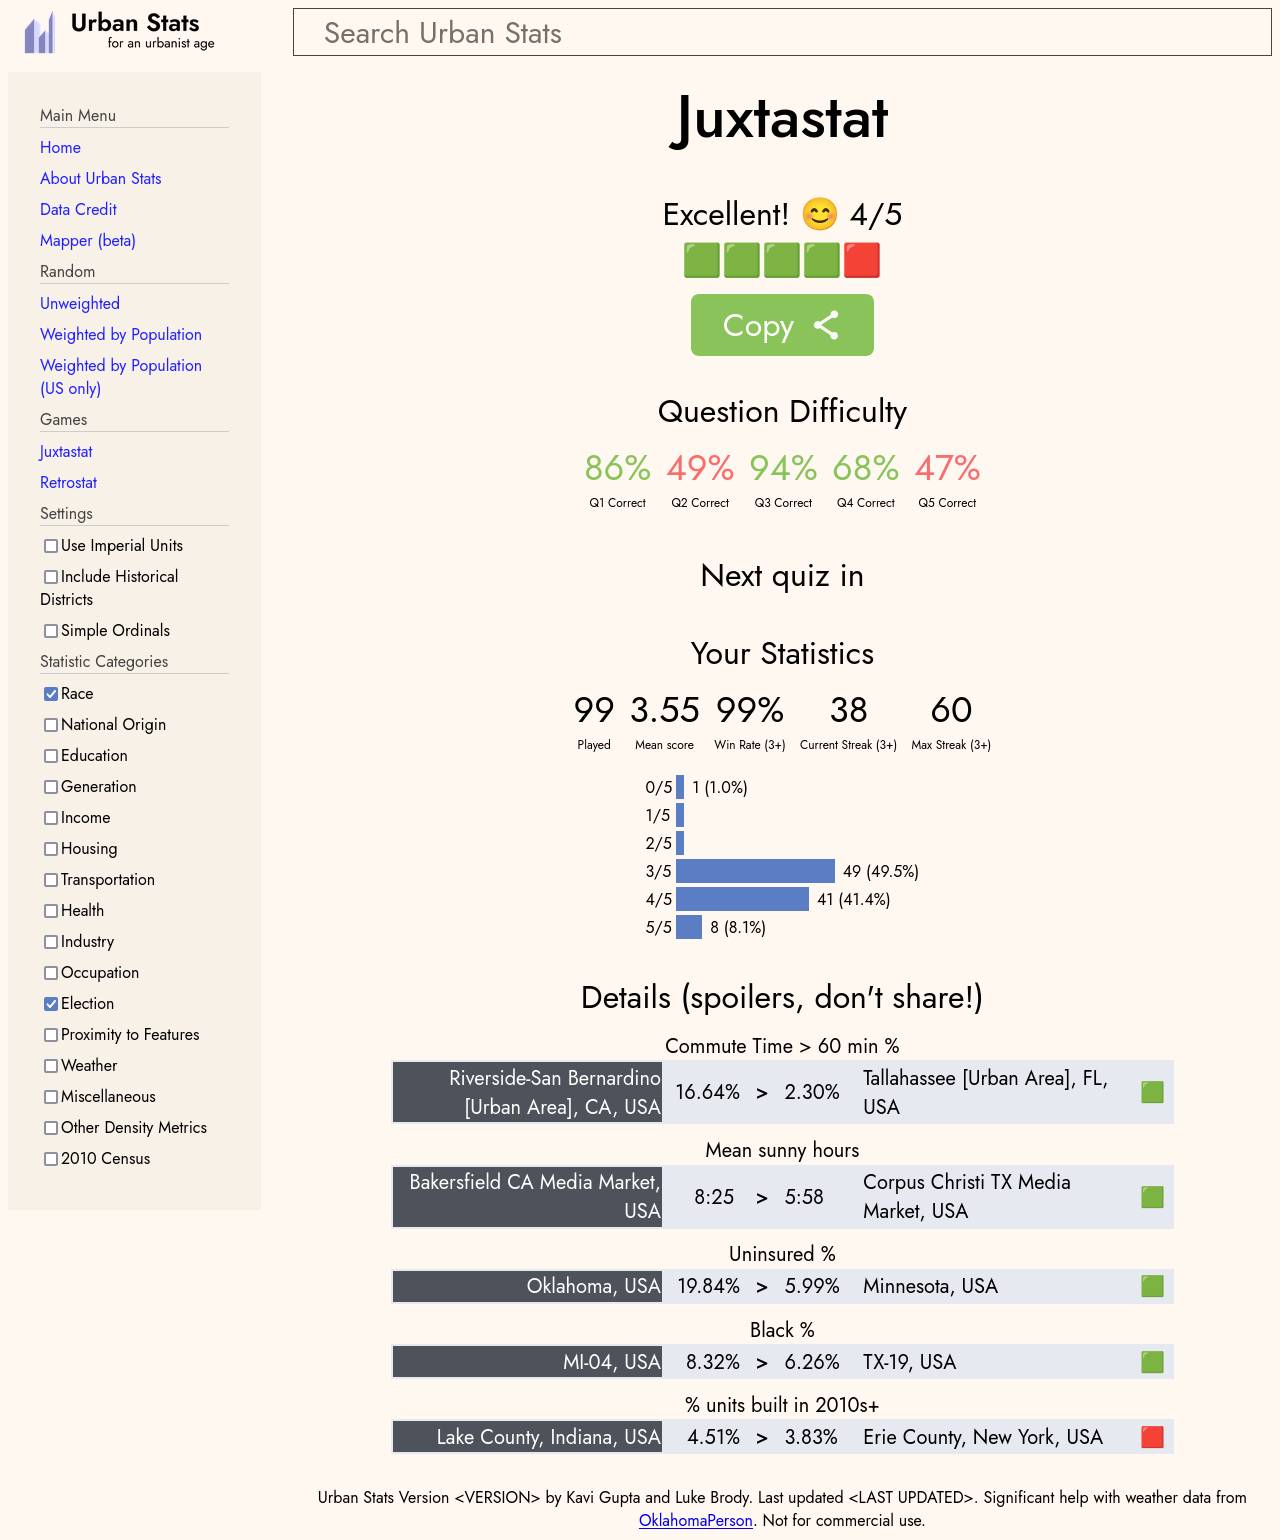
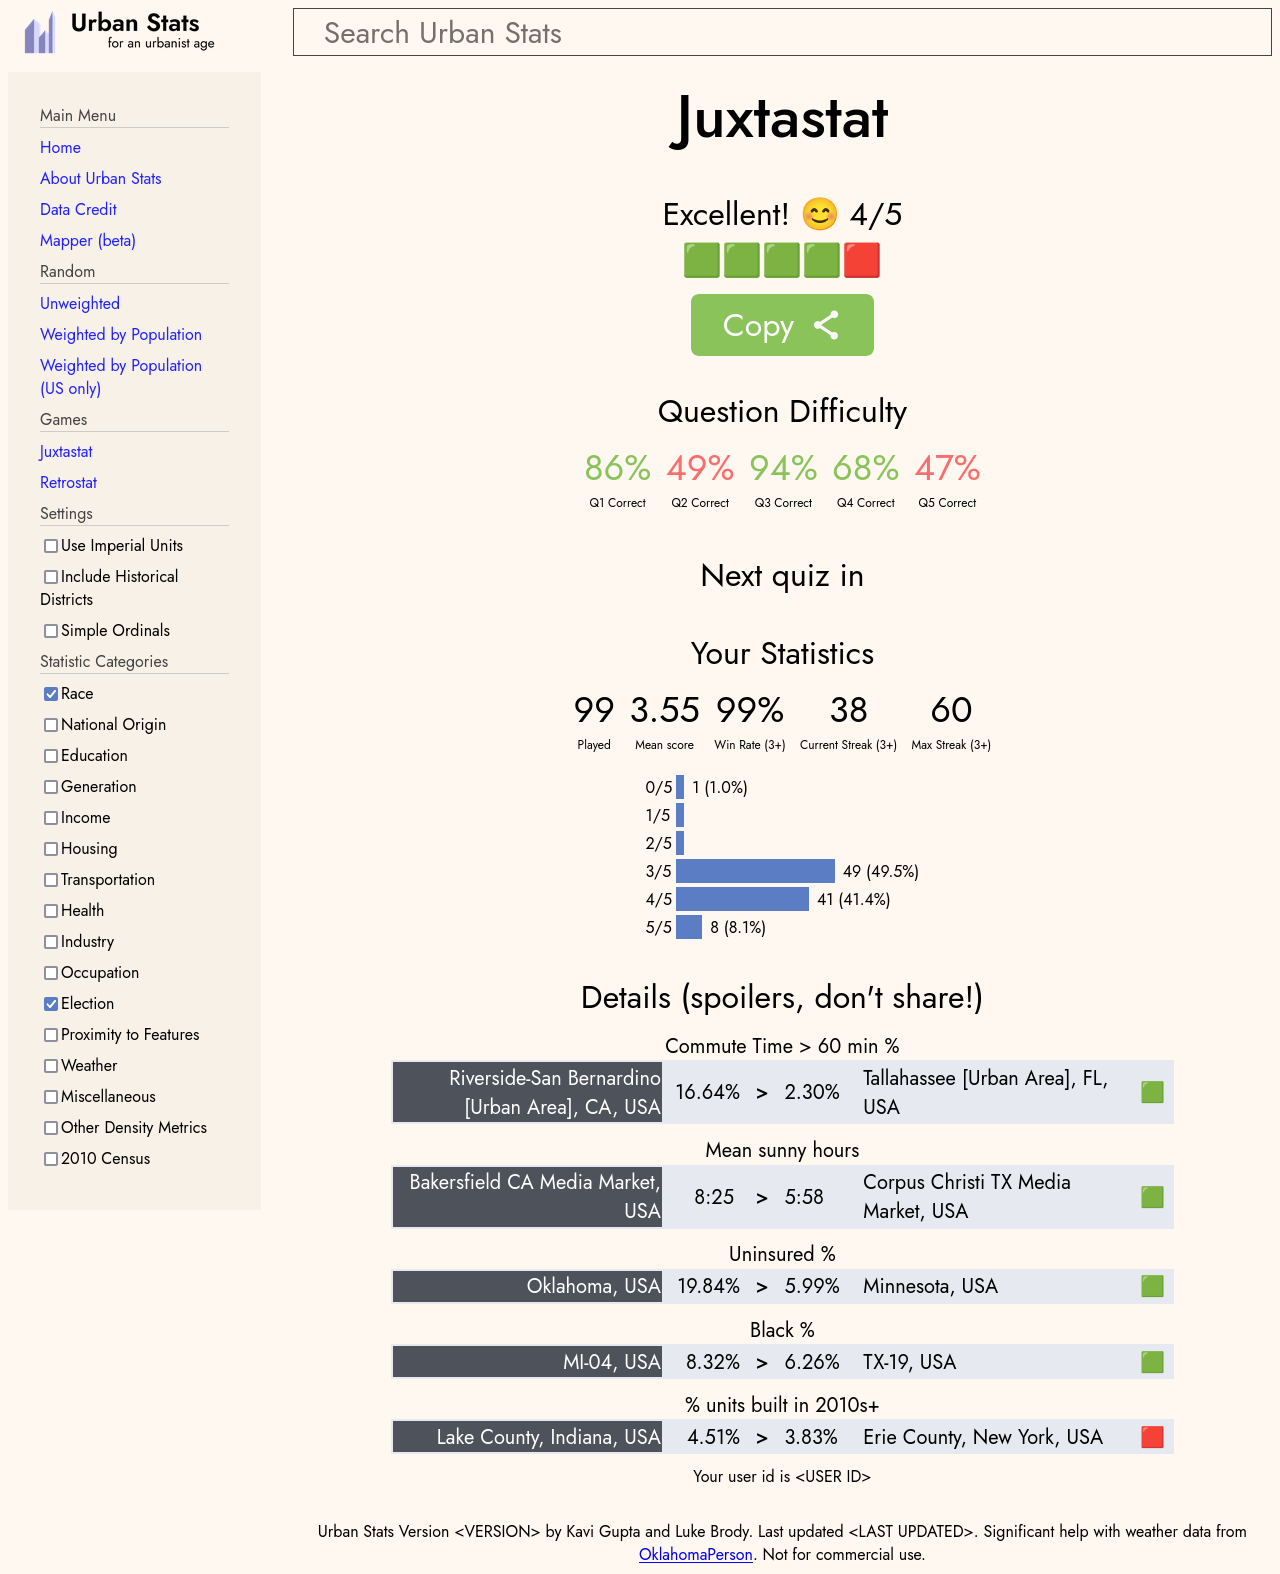
make quiz tests more deterministic

diff --git a/react/test/article_test.js b/react/test/article_test.js
@@ -62,6 +62,9 @@ async function prep_for_image(t) {
         }
         document.getElementById("current-version").innerHTML = "&lt;VERSION&gt;";
         document.getElementById("last-updated").innerHTML = "&lt;LAST UPDATED&gt;";
+        for (const x of document.getElementsByClassName("juxtastat-user-id")) {
+            x.innerHTML = "&lt;USER ID&gt;";
+        }
     });
 }
 
@@ -531,8 +534,12 @@ fixture('quiz result test')
     });
 
 test('quiz-results-test', async t => {
+    await t.resizeWindow(1400, 800);
+    await t.eval(() => location.reload(true));
+    await t.wait(1000);
     await t.eval(() => location.reload(true));
     await t.eval(() => document.getElementById("quiz-timer").remove());
+    await t.wait(1000);
     await screencap(t, "quiz/results-page");
 });
 

diff --git a/react/src/quiz/quiz-components.js b/react/src/quiz/quiz-components.js
@@ -78,6 +78,6 @@ function user_id() {
     if (user_id === null) {
         return "";
     } else {
-        return <div>Your user id is {user_id}</div>;
+        return <div>Your user id is <span class="juxtastat-user-id">{user_id}</span></div>;
     }
 }
